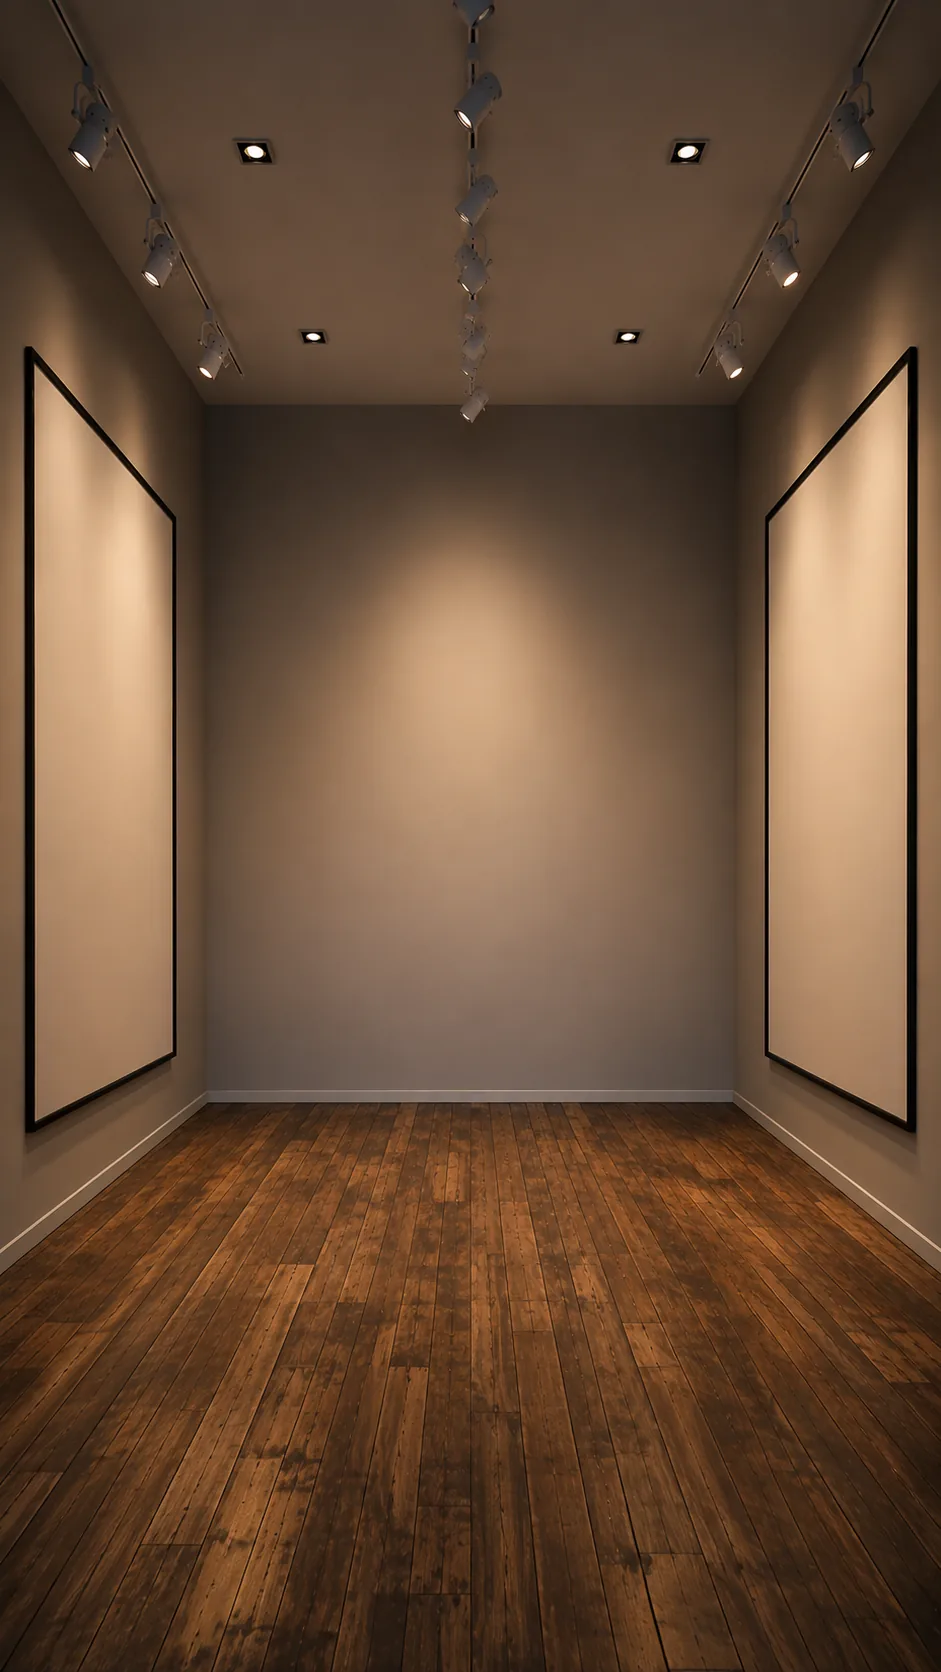
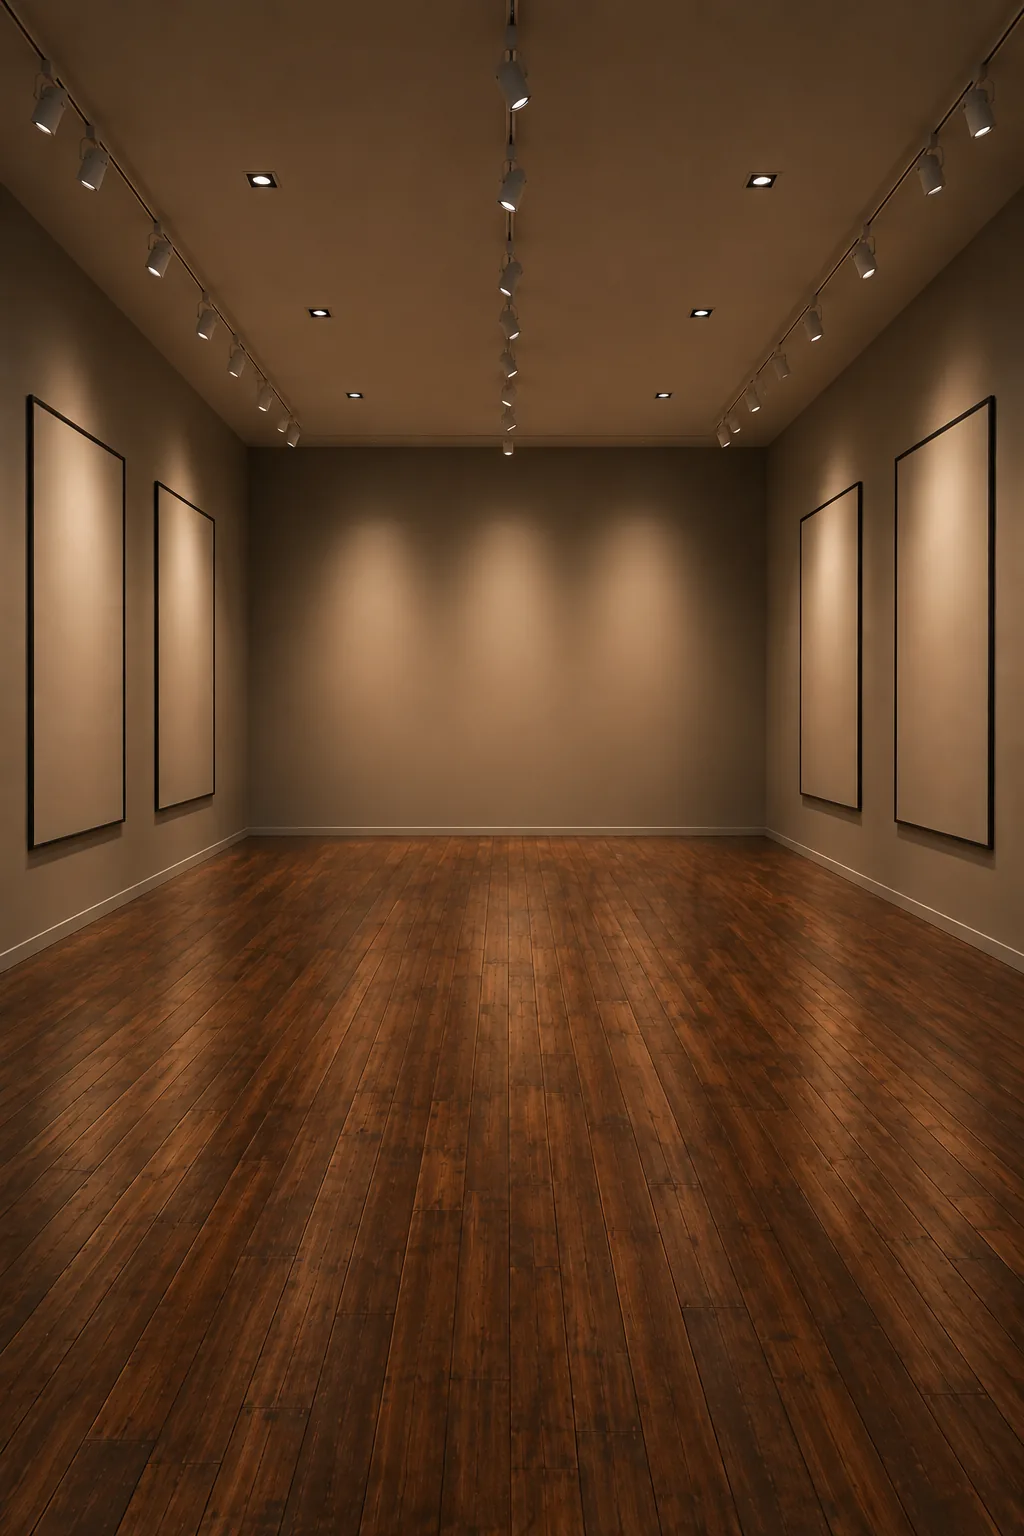
Replace mobile hero background with new gallery photo, re-map frame coordinates, wire up center frame position

diff --git a/components/Experience.tsx b/components/Experience.tsx
@@ -15,16 +15,20 @@ type Props = {
 // Coordinates measured directly from the reference photos (fractions of the
 // original pixel dimensions) — where the two blank canvases actually sit.
 const DESKTOP_IMG = { w: 1672, h: 941 };
-const MOBILE_IMG = { w: 941, h: 1672 };
+const MOBILE_IMG = { w: 1024, h: 1536 };
 const PEOPLE_IMG = { w: 1024, h: 1536 };
 
 const DESKTOP_FRAMES = [
   { x0: 0.023, y0: 0.16, x1: 0.229, y1: 0.676 }, // left wall
   { x0: 0.759, y0: 0.171, x1: 0.96, y1: 0.685 }, // right wall
 ];
+// New mobile photo has four side frames plus a spotlit center back wall.
+// Using the inner-left/inner-right frames (clearest, most head-on) and the
+// middle back-wall spotlight as the center slot.
 const MOBILE_FRAMES = [
-  { x0: 0.037, y0: 0.222, x1: 0.179, y1: 0.55 }, // left
-  { x0: 0.82, y0: 0.221, x1: 0.963, y1: 0.602 }, // right
+  { x0: 0.155, y0: 0.32, x1: 0.204, y1: 0.482 }, // inner-left
+  { x0: 0.785, y0: 0.322, x1: 0.836, y1: 0.491 }, // inner-right
+  { x0: 0.441, y0: 0.352, x1: 0.548, y1: 0.476 }, // center back wall
 ];
 
 export default function Experience({ artworks, heroDesktop, heroMobile, heroPeople }: Props) {
@@ -45,7 +49,8 @@ export default function Experience({ artworks, heroDesktop, heroMobile, heroPeop
   const selected = artworks.find((a) => a.id === selectedId) || null;
   const leftArt = artworks.find((a) => a.frame_position === "left") ?? null;
   const rightArt = artworks.find((a) => a.frame_position === "right") ?? null;
-  const framedArt = [leftArt, rightArt];
+  const centerArt = artworks.find((a) => a.frame_position === "center") ?? null;
+  const framedArt = [leftArt, rightArt, centerArt];
   const framedUrls = framedArt.map((a) => a?.image_url ?? null);
 
   const onFrameSelect = (i: number) => {
